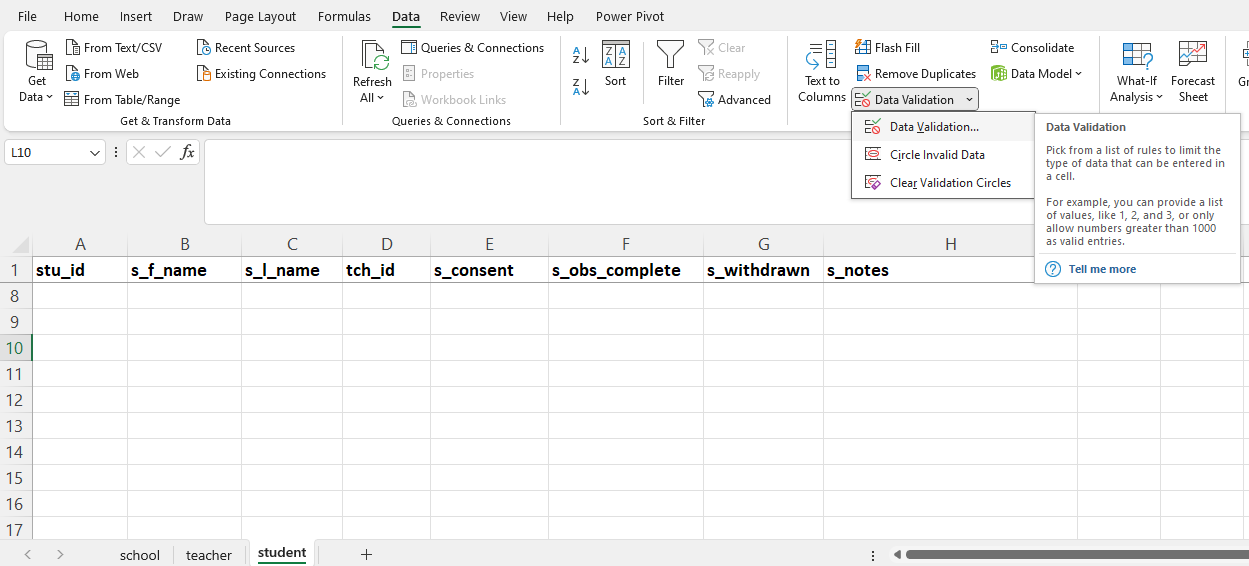
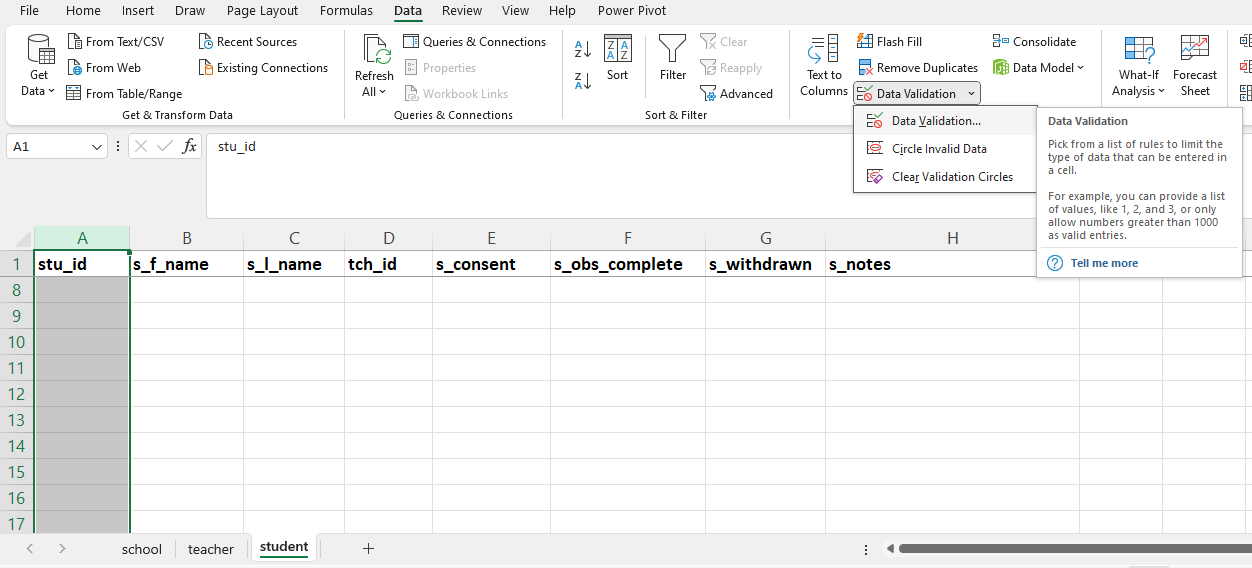
Update image and clarify wording

diff --git a/content/blog/excel_entry/index.html b/content/blog/excel_entry/index.html
@@ -29,7 +29,7 @@ tags:
 <li><p>Qualtrics - Data entry is done in form view, reducing errors, and data validation can be added when building a form. No powerful querying can be done across forms (that I’m aware of). Similar to REDCap, this tool also allows you to have both the numeric value and their contextual value labels in a form, and you can choose to export one or the other type of information. This form is best for one time entry, but not great if you need to keep going back and adding/editing information to records over time.</p></li>
 <li><p>Google Forms/Sheets - Data entry can be done in form view (using Google Forms) or spreadsheet view (using Google Sheets). There is some limited data validation available in Google forms, and more extensive data validation available if entering directly in Google Sheets. Similar to Qualtrics, using Google Forms is best for one time data entry, but not great if you need to keep editing the data. For the most part, using Google Sheets provides similar functionality as what we will cover in this blog post for Microsoft Excel. The one potential downfall to using Google products over Excel is security. If your data is confidential, Google products may not meet the security requirements you need (talk with your institution to find out).</p></li>
 </ul>
-<p>However, there are times when all of the tools mentioned above might not meet your needs. Maybe you don’t have access to some of these tools, maybe the tool doesn’t meet your security needs, or maybe your team doesn’t have the time or expertise to build in some of these tools. In those cases, often Microsoft Excel is the next best option for entering data. In this blog post I hope to provide some simple ways you can improve the quality of your data, reduce redundancies, and still create helpful queries, without getting too into the weeds of all of the extensions Excel has to offer. These tips include:</p>
+<p>However, there are times when all of the tools mentioned above might not work for your purposes. Maybe you don’t have access to some of these tools, maybe the tool doesn’t meet your security needs, or maybe your team doesn’t have the time or expertise to build in some of these tools. In those cases, often Microsoft Excel is the next best option for entering data. In this blog post I hope to provide some simple ways you can improve the quality of your data, reduce redundancies, and still create helpful queries, without getting too into the weeds of all of the extensions Excel has to offer. These tips include:</p>
 <ol style="list-style-type: decimal">
 <li>Adding data validation to improve data quality</li>
 <li>Using forms to improve data entry security</li>
@@ -51,13 +51,13 @@ tags:
 Then, we go to “Data” -&gt; “Data Validation” -&gt; “Data Validation”.<br />
 Then, we can start applying rules for each variable.</p>
 <div class="figure" style="text-align: center"><span style="display:block;" id="fig:unnamed-chunk-1"></span>
-<img src="img/validate1.PNG" alt="Data validation in Excel" width="624" />
+<img src="img/validate1.PNG" alt="Data validation in Excel" width="626" />
 <p class="caption">
 Figure 1: Data validation in Excel
 </p>
 </div>
-<div id="numeric-range" class="section level4">
-<h4>Numeric range</h4>
+<div id="types-and-ranges" class="section level4">
+<h4>Types and ranges</h4>
 <p>We can restrict the type and range of our variable using data validation. Let’s say, for instance, that I know that the column <code>stu_id</code>, should only contain values that are numeric and fall within the range of 14000 – 15000. I can apply those rules to this column.</p>
 <div class="figure" style="text-align: center"><span style="display:block;" id="fig:unnamed-chunk-2"></span>
 <img src="img/validate2.PNG" alt="Applying data validation rules to the stu_id column" width="520" />
@@ -73,12 +73,15 @@ Figure 3: Getting an error when entering an unacceptable value
 </p>
 </div>
 <p>However, I also know that the values in the <code>stu_id</code> column must be unique. So it would improve my data quality if I go one step further to add that to my data validation.</p>
-<p>While restricting duplicate values is fairly straightforward in many of the database (and some of the other data entry tools) I mentioned earlier, it’s a little more involved to add this criteria in Excel. While there are probably several other ways to ensure values are unique, one way is to create custom data validation through a formula. Here I am writing the following formula:</p>
+<p>While restricting duplicate values is fairly straightforward in many of the database (and some of the other data entry tools) I mentioned earlier, it’s a little more involved to add this criteria in Excel. While there are probably several other ways to ensure values are unique, one way is to create custom data validation using a formula like the one shown here:</p>
 <p><code>=AND(ISNUMBER(A1),COUNTIF($A:$A, A1) = 1, A1&gt;=14000, A1&lt;=15000)</code></p>
+<p>In this formula:</p>
 <ul>
-<li>We ensure that the value entered is numeric (using the <code>ISNUMBER</code> formula)</li>
-<li>We ensure the value is unique (using the <code>COUNTIF</code> formula where we are only allowing each value to be used once)</li>
-<li>We restrict the range of the values to 14000 – 15000.</li>
+<li>We ensure that the value entered is numeric (using the <code>ISNUMBER</code> formula)<br />
+</li>
+<li>We ensure the value is unique (using the <code>COUNTIF</code> formula where we are only allowing each value to be used once)<br />
+</li>
+<li>We restrict the range of the values to 14000 – 15000</li>
 </ul>
 <div class="figure" style="text-align: center"><span style="display:block;" id="fig:unnamed-chunk-4"></span>
 <img src="img/validate4.PNG" alt="Applying custom validation" width="356" />
@@ -204,7 +207,7 @@ Figure 13: Starting a PivotTable
 </p>
 </div>
 <p>Select the range of your data and select “New Worksheet”.</p>
-<p>What’s nice about creating PivotTables in other worksheets is that it reduces errors that might happen if you are sorting and filtering directly in your tracking sheets.</p>
+<p>What’s nice about creating PivotTables in other worksheets is that it reduces errors that might happen if you are sorting and filtering directly in your entry sheets.</p>
 <div class="figure" style="text-align: center"><span style="display:block;" id="fig:unnamed-chunk-14"></span>
 <img src="img/pivot2.PNG" alt="Selecting PivotTable options" width="572" />
 <p class="caption">
